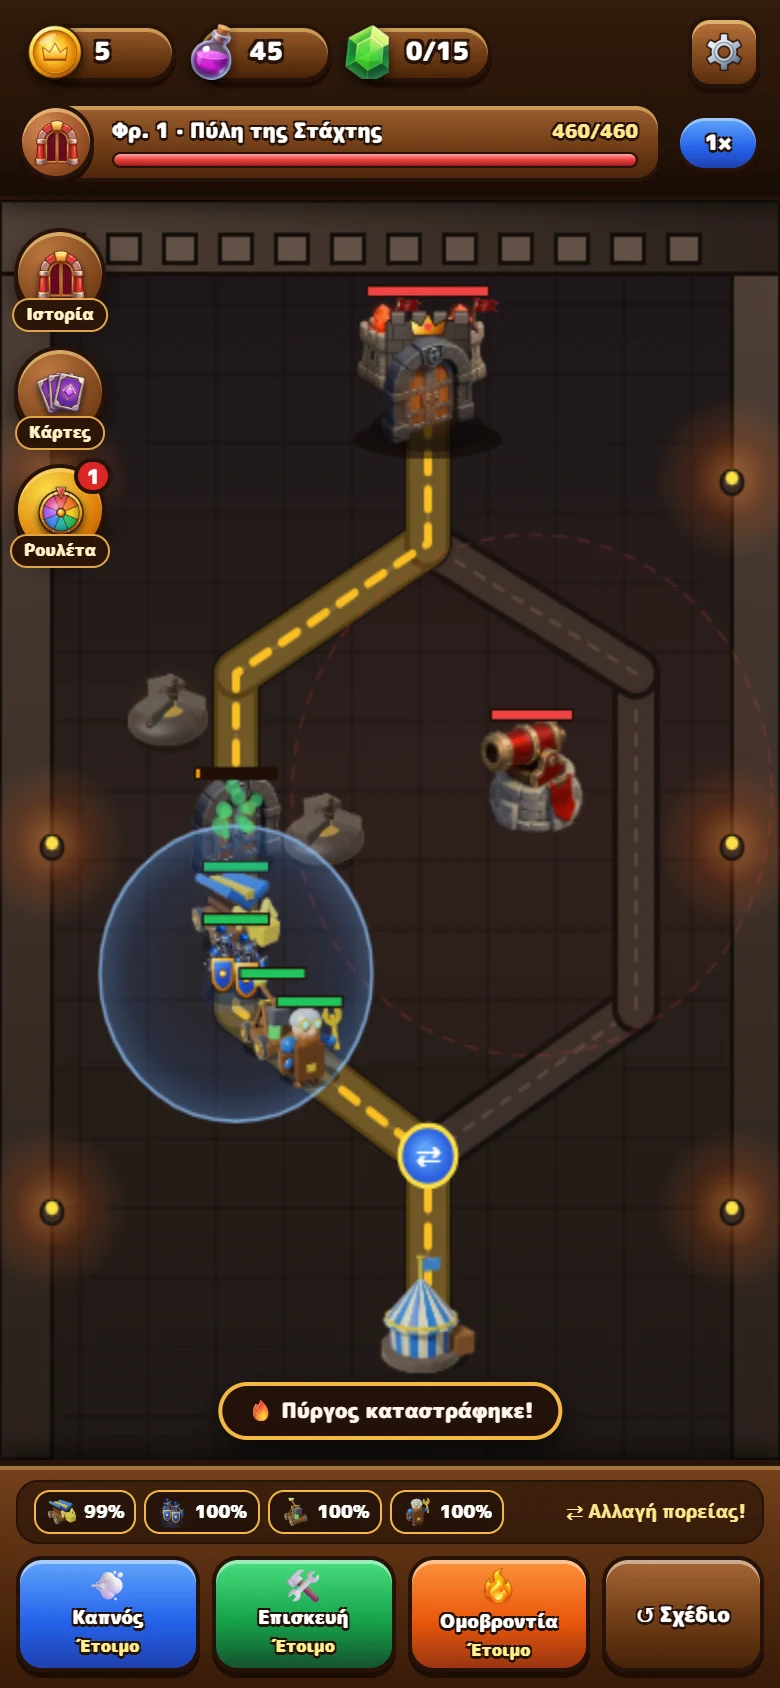
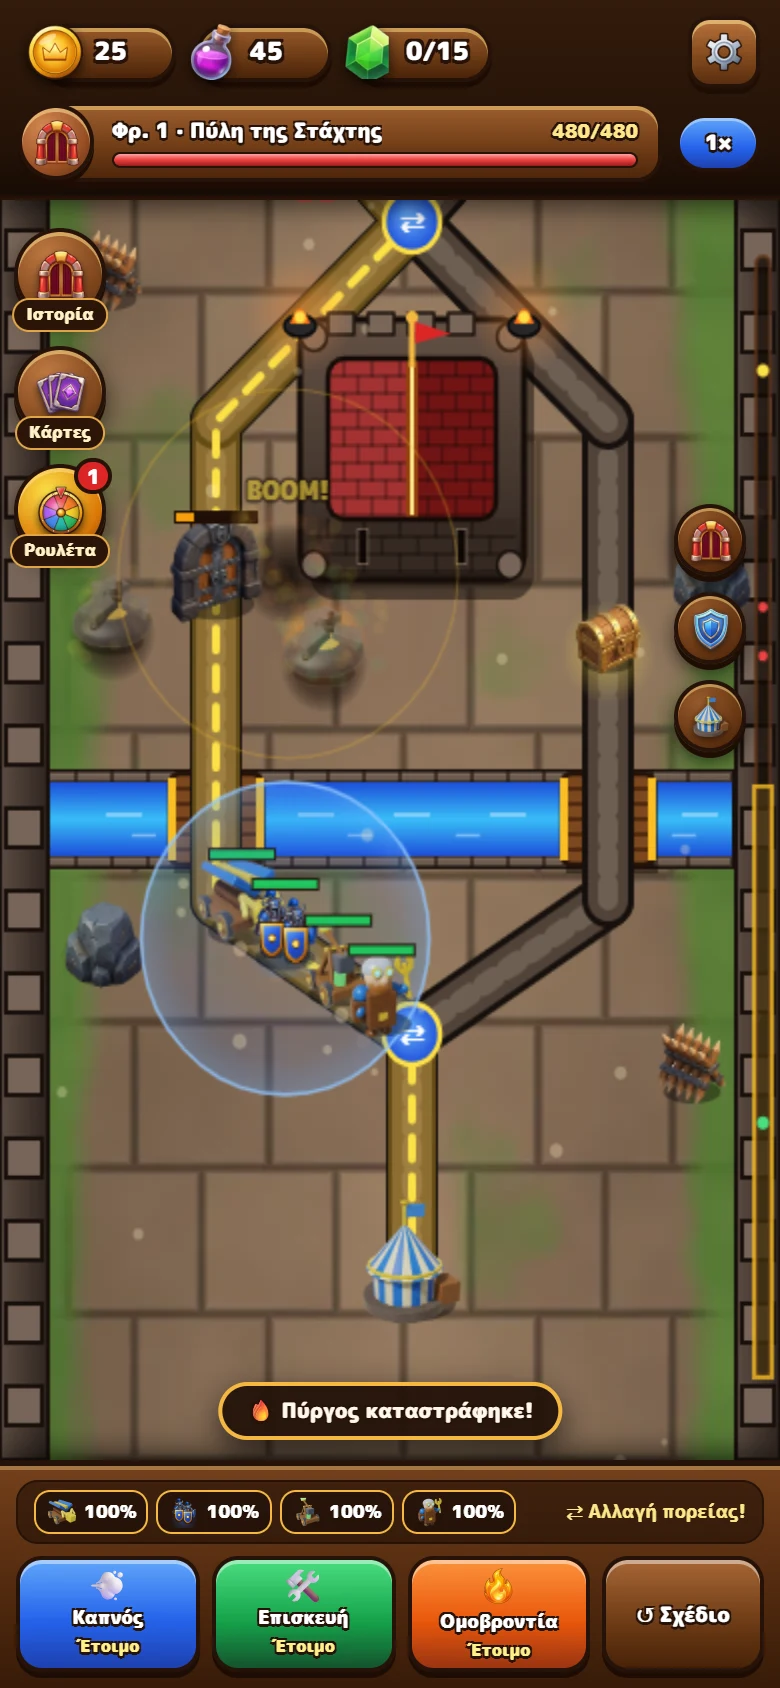
Release v1.1.0: Living Castles, 5 Biomes & refreshed showcase screenshots

diff --git a/README.md b/README.md
@@ -22,12 +22,12 @@
     <img src="https://img.shields.io/badge/More_Apps-jemangr.app-f59e0b?style=for-the-badge" alt="jemangr.app" />
   </a>
   <a href="https://github.com/jemangr/reverse-siege-releases/releases">
-    <img src="https://img.shields.io/badge/Releases-v1.0.0-22c55e?style=for-the-badge" alt="GitHub Releases" />
+    <img src="https://img.shields.io/badge/Releases-v1.1.0-22c55e?style=for-the-badge" alt="GitHub Releases" />
   </a>
 </p>
 
 <p align="center">
-  <img src="https://img.shields.io/badge/Version-v1.0.0-brightgreen" alt="Version v1.0.0" />
+  <img src="https://img.shields.io/badge/Version-v1.1.0-brightgreen" alt="Version v1.1.0" />
   <img src="https://img.shields.io/badge/Package-app.jemangr.reversesiege-blue" alt="Package app.jemangr.reversesiege" />
   <img src="https://img.shields.io/badge/Platform-Android%208.0%2B-purple" alt="Android 8.0+" />
   <img src="https://img.shields.io/badge/Languages-EL%20%7C%20EN-gold" alt="Languages EL | EN" />
@@ -46,26 +46,22 @@ Always get the latest official Android APK build from this permanent link:
 
 ---
 
-## ✨ Key Highlights (`v1.0.0`)
+## ✨ Key Highlights (`v1.1.0 — Living Castles & 5 Biomes`)
 
-- ⚔ **Inverted Tower Defense (You Are the Invader):** Instead of placing towers, you recruit a custom siege convoy and plot the winning route through enemy castle crossroads (`⇄`)!
-- ⇄ **Dynamic Plan & Live Mid-Siege Re-Routing:** Compare enemy tower range rings in Planning Phase, and flip upcoming junctions live mid-battle as towers crumble.
-- 🛡 **4 Distinct Siege Units:**
-  - **Battering Ram:** Heavy armor (`-55%` arrow damage) + `×3.6` Gate & Keep smash power.
-  - **Shield Wall:** Projects an Aegis Dome blocking `72%` of Archer arrows & `40%` of Cannon splash for trailing units.
-  - **Alchemist Trebuchet:** Lobs parabolic alchemical firebombs from long range for `×2.35` Tower damage.
-  - **Sapper Engineer:** Auto-disarms **Iron Spike Traps** ahead and heals nearby allies.
-- 💨 **3 Commander Powers:** Blind towers with **Smoke Veil (`5.5s`)**, heal the convoy with **Field Repair (`4.5s`)**, or drop a 3-shot **Meteor Barrage**.
-- 🏰 **5-Chapter Story Campaign & Carved-Wood 3D UI:** Follow Grand Engineer Volkan across 5 Fortresses in Bastion Breaker's **Option 1 Bouncy 3D** wood HUD with Workshop Upgrades, Fortune Wheel, Greek/English localization & studio Web Audio.
-- 🔄 **Automatic 6-Hour Update Checker:** Checks `version.json` silently every 6 hours + one-tap check in Settings, with **Our Other Apps** listing all 13 apps from [jemangr.app](https://jemangr.app).
+- 🏰 **3-Zone Living Castles & Scroll Camera (`390×1100`):** Scroll vertically across **Outer Moat & Drawbridges**, **Inner Guardhouse Walls**, and the **Citadel Keep Sanctum** via touch drag, wheel, right-side quick-camera medallions, and a live **Vertical Depth Minimap** bar.
+- 🌍 **5 Bespoke 3D Biomes:** Battle across **Ashen Grasslands**, **Lava Embers**, **Mossy Dungeons**, **Frozen Bastion**, and the **Crimson Royal Citadel**, complete with animated water/lava/moss/ice moats, wooden drawbridges, flickering iron braziers, weathered boulders, barricades, craters & stuck arrows.
+- 💣 **Powder Barrels, Loot Chests & Guard Ambushes:** Blast **Powder Barrels** with the Alchemist Trebuchet (or tap to detonate during battle!) for `220+` AoE chain damage, raid flanking **Iron Loot Chests** for bonus Gold & Blueprints, and Clash through emerging **Iron Legion Foot Guards**.
+- 🔥 **Sweeping Dragon Flame Cones & ⇄ Mid-Siege Re-Routing:** Dodge real sweeping **Dragon Flame Cones**, compare tower range rings, and flip multi-courtyard junctions (`J1`/`J2`) live mid-battle as towers fall.
+- 🛡 **4 Siege Units & 3 Commander Powers:** Command **Battering Rams** (with lunge recoil), **Shield Walls** (`74%` Aegis arrow dome), **Alchemist Trebuchets**, and **Sapper Engineers**, backed by **Smoke Veil**, **Field Repair**, and **Meteor Barrage**.
+- 🔄 **Automatic 6-Hour Update Checker & Carved-Wood 3D UI:** Greek/English localization, Workshop Upgrades, Fortune Wheel, and **Our Other Apps** from [jemangr.app](https://jemangr.app).
 
 ---
 
 ## 📸 Screenshots Gallery
 
-| 1. Route Planning (`⇄`) & Convoy | 2. Live Siege, Aegis Dome & Gate Smash | 3. Smoke Veil, Barrage & Mid-Siege Flank |
+| 1. Biome 1 Grasslands, Moat & Route (`⇄`) | 2. Powder Barrel Blast, Guards & Gate Smash | 3. Biome 2 Lava, Dragon Flame & Smoke Veil |
 | :---: | :---: | :---: |
-| <img src="screenshots/rs_01_plan_route.png" width="220" alt="Route Planning & Convoy" /> | <img src="screenshots/rs_02_live_siege.png" width="220" alt="Live Siege & Shield Dome" /> | <img src="screenshots/rs_03_flank_smoke.png" width="220" alt="Smoke Veil & Mid-Siege Flank" /> |
+| <img src="screenshots/rs_01_plan_route.png" width="220" alt="Biome 1 Grasslands Route Planning" /> | <img src="screenshots/rs_02_live_siege.png" width="220" alt="Powder Barrel Blast and Gate Smash" /> | <img src="screenshots/rs_03_flank_smoke.png" width="220" alt="Lava Biome Dragon Flame and Smoke Veil" /> |
 
 | 4. 5-Chapter Story Campaign | 5. Siege Workshop Upgrades | 6. Citadel Shattered (3★ Victory) |
 | :---: | :---: | :---: |
